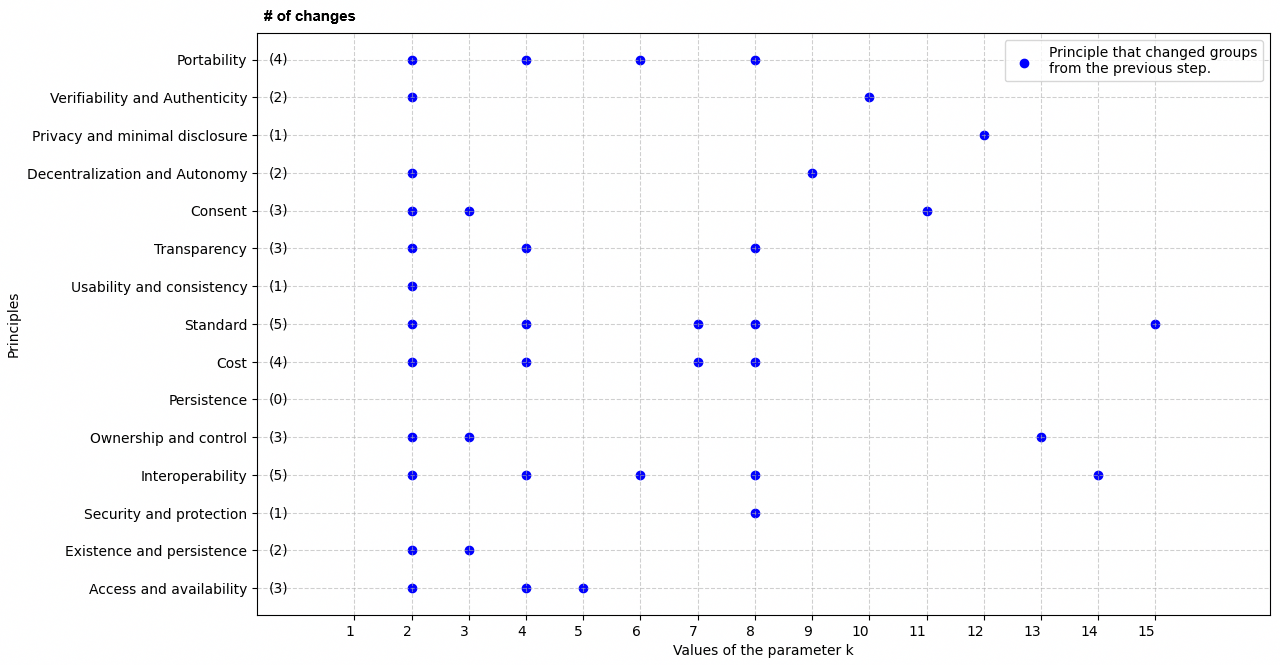
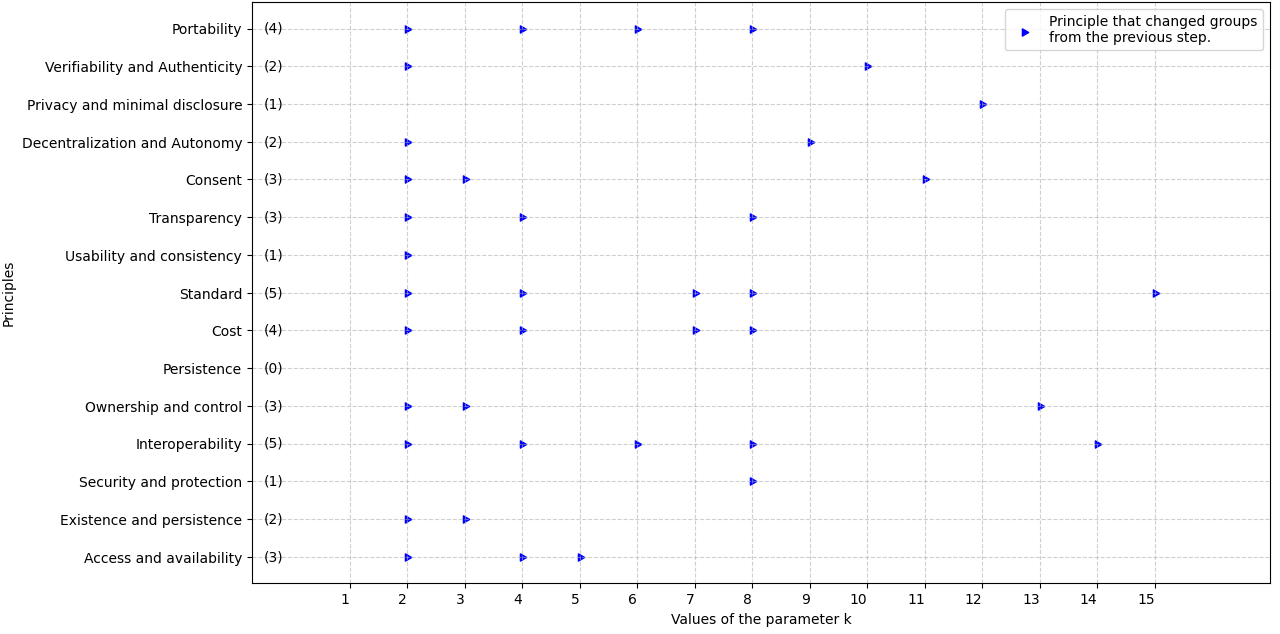
.

diff --git a/definition/program/clustering/kmeans/Principles_change_group.py b/definition/program/clustering/kmeans/Principles_change_group.py
@@ -38,7 +38,13 @@ for step in range(len(steps) - 1):
 
 # Visualize changes in a graph
 fig, ax = plt.subplots(figsize=(10, 6))
-ax.scatter([x[0] for x in change_points], [x[1] for x in change_points], color='blue', label='Principle that changed groups\nfrom the previous step.')  
+ax.scatter(
+    [x[0] for x in change_points], 
+    [x[1] for x in change_points], 
+    color='blue', 
+    marker=(3, 0, 270),  # Triangle pointing left
+    label='Principle that changed groups\nfrom the previous step.'
+)  
 ax.set_xticks(steps)
 ax.set_yticks(range(len(principles)))
 ax.set_yticklabels(principles)
